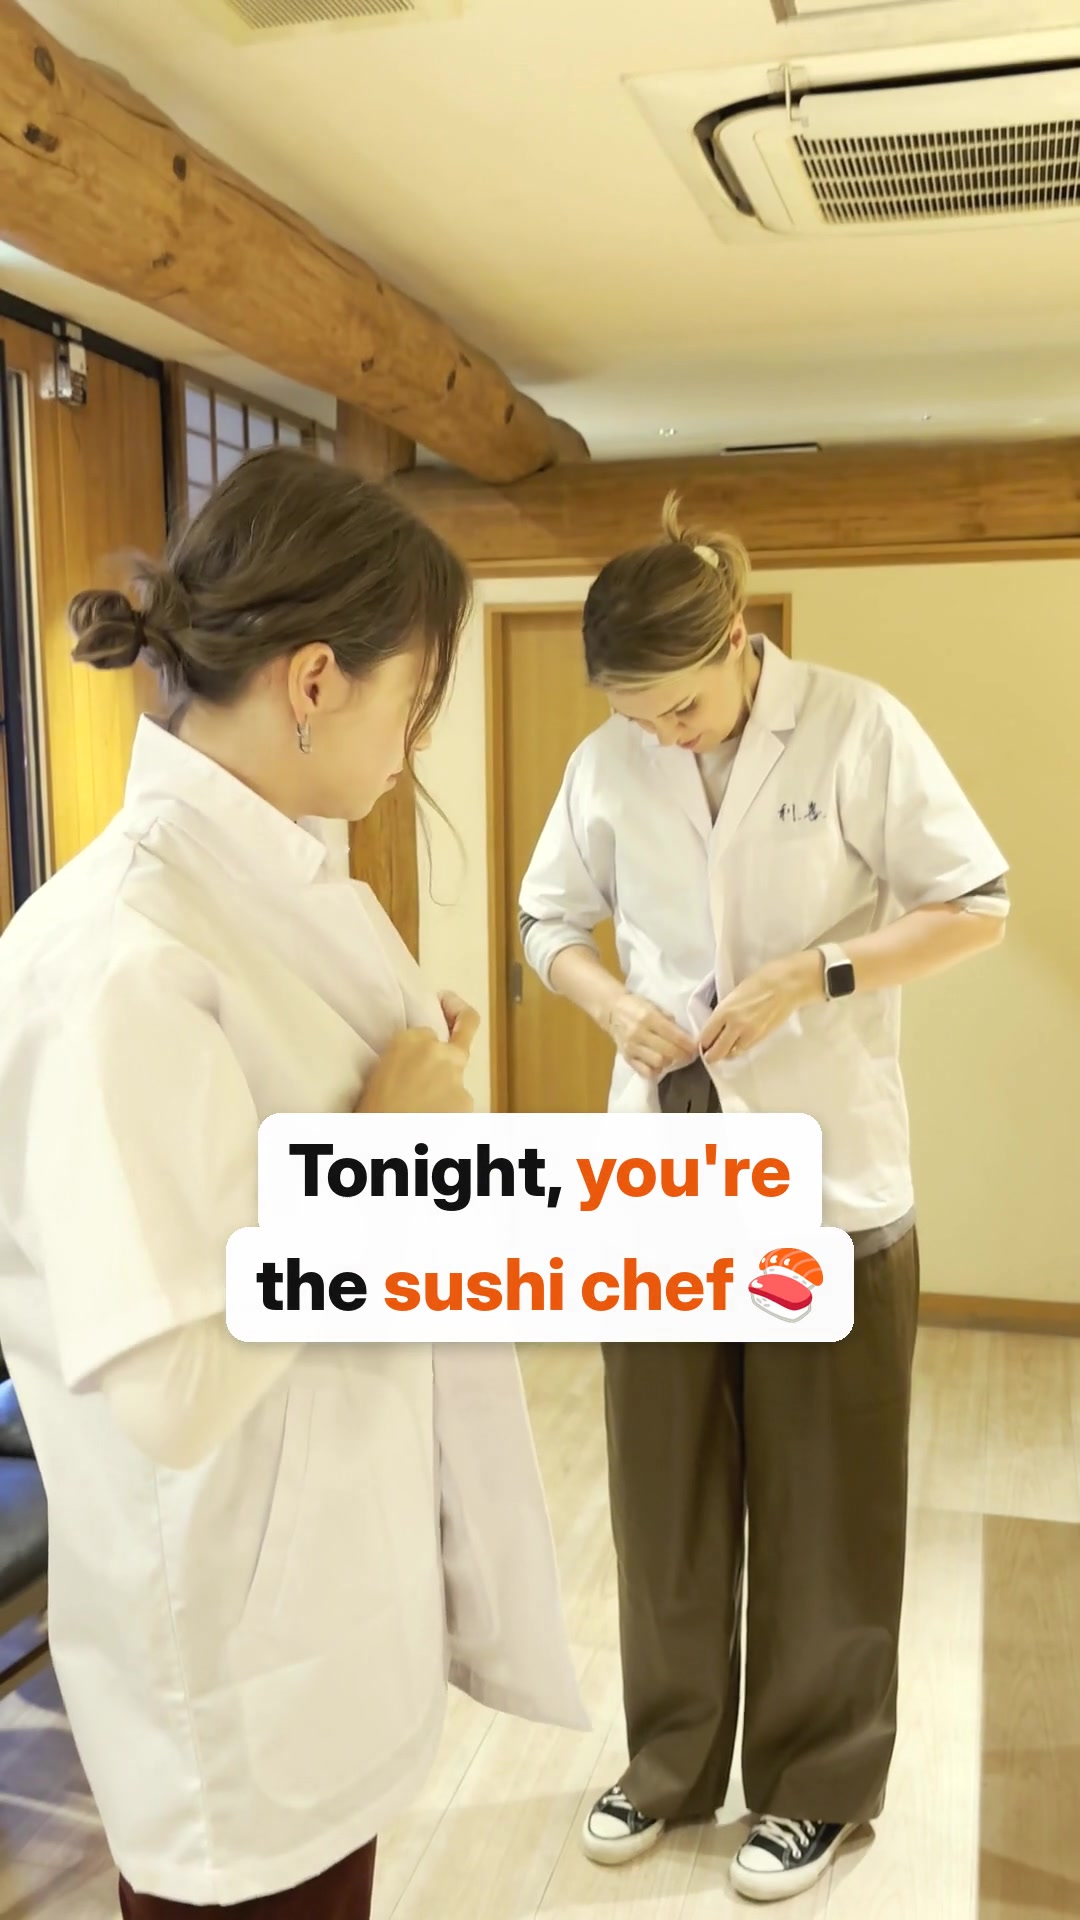
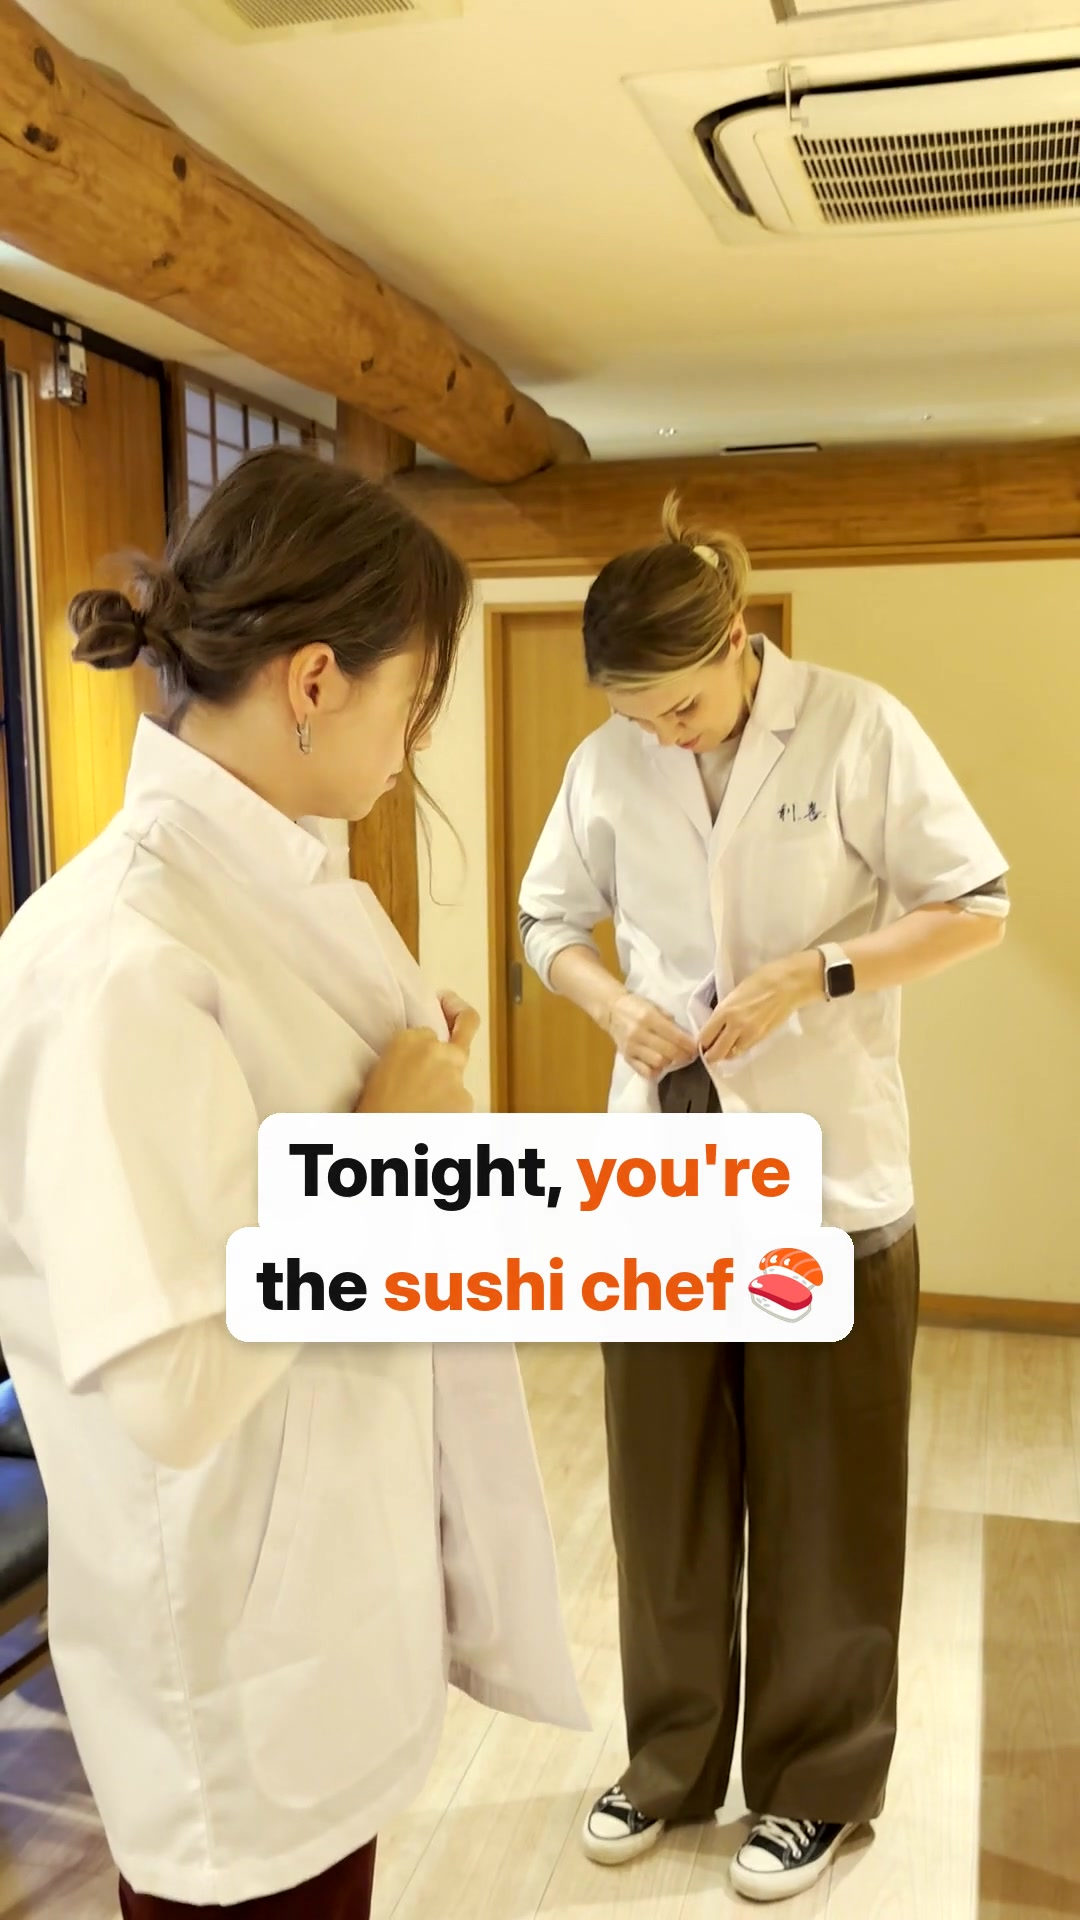
004：色味を濃いめに、食べる場面を「自分で作った寿司」の文言に
Claude-Session: https://claude.ai/code/session_01RyJ5xhuQ5T9iHaCgxofhZy

diff --git a/docs/video_style.md b/docs/video_style.md
@@ -10,7 +10,7 @@
 - 主役は**体験しているゲストの笑顔**。握る瞬間、食べた瞬間のリアクション、乾杯、集合写真を優先して使う
 - 縦 9:16、1080x1920、25〜30秒、1カット1〜2秒
 - 素材の質感（築地の本物のカウンター、職人、日本酒）は残す
-- **色味は自然な色をベースに、オレンジ味を強めに・明るめ、全カット統一**（しゅん指定 2026-11-12 最終。強いオレンジは「不自然」、ほぼ自然な色は「違和感」で、その中間に決定）。edit.json に `"look": {"post": "colorchannelmixer=rr=1.05:gg=1.0:bb=0.88,eq=brightness=0.04:gamma=1.10:saturation=1.15:contrast=1.04"}` を入れる（各カットの白バランスと明るさを中立にそろえてから同じ色味をかける。004で採用）
+- **色味は自然な色をベースに、オレンジ味を強めに・明るめ、全カット統一**（しゅん指定 2026-11-12 最終。「薄い」とのことで彩度・コントラストを上げて濃いめに。強いオレンジは「不自然」、ほぼ自然な色は「違和感」で、その中間に決定）。edit.json に `"look": {"post": "colorchannelmixer=rr=1.06:gg=1.0:bb=0.86,eq=brightness=0.02:gamma=1.04:saturation=1.32:contrast=1.10"}` を入れる（各カットの白バランスと明るさを中立にそろえてから同じ色味をかける。004で採用）
 - **カットの順番は実際の体験工程どおり**（しゅん指定 2026-11-07）：シャリ切り → 職人に教わる → 握り → 巻物 → 盛り付け → 実食。後の工程のカットを冒頭に持ってこない
 - 2人以上映るカットは、全員の表情（笑顔）を確認してから使う
 
@@ -24,6 +24,7 @@
 - 参考：初回投稿（白文字・小さめ・中央）と他社参考（太字・縁取り・キーワードだけ黄色・一文ずつ語る形式）
 - v2で採用：**太字の白文字＋黒縁取り、キーワードを黄色ハイライト**、画面の中央〜やや下（下端のUIエリアは避ける）
 - 一文ずつ短く区切ってテンポよく切り替える
+- **食べる場面の文言は「自分で作った寿司を食べる」と必ず伝える**（しゅん指定 2026-11-12。例：「Then eat the sushi you made」「Your own nigiri, so good!」）。職人が作ったものを食べるように読める書き方はしない。キャプションも同じ
 - **テロップ「SNSネイティブ」**（004で最終採用、しゅん指定 2026-11-12「わかりやすく、外国人が好きで見やすい感じ」）：TikTok/Instagramの標準テロップと同じ、白い角丸の吹き出しに黒の太字。キーワードはオレンジ、行末に絵文字1つ（`"emoji"`）。`"anim": "native"`、size 68〜74、y 1240。ふわっと弾んで出る。上部の飾り（進行バー・バッジ・章ラベル）は使わない
 - **テロップ「ステッカー」**（004で採用、しゅん指定 2026-11-12。デザイン案A タイプライター／B ステッカー／C 大きな1語 を出してBに）：`"text_style": "kinetic"` で各beatを `"anim": "sticker"`。1行ずつ少し傾いたシール（普通の行はクリーム地に紺、`**…**` を含む行はロゴの赤地に白）が弾んで出る。傾きは行・beatごとに左右交互。上部の進行バー・場所バッジ・章ラベルは**使わない**（しゅん「上のデザインは無し」）。A（`type`）と C（`big`）も `pipeline/kinetic.py` にあり、回ごとに使い分けて飽きさせない
 - **動くテロップ「kinetic」**（004で採用、しゅん指定 2026-11-12「見る人が飽きないテロップの使い方・見せ方に。デザイン追加OK」）：edit.json に `"text_style": "kinetic", "kinetic": {"badge": "TSUKIJI · TOKYO", "progress": true}`。beatごとに `anim`（pop＝単語が弾んで出る／stamp＝大きく押し込む／slide＝左から滑り込む／marker＝キーワードにオレンジのマーカーが引かれる）、`chapter`（左上の「01 SUIT UP」などの章ラベル）、`y`（位置）を変えて、同じ見せ方が続かないようにする。上部にオレンジの進行バー、右上に場所バッジ。白の極太文字＋影、キーワードはオレンジ。仕組みは `pipeline/kinetic.py`
